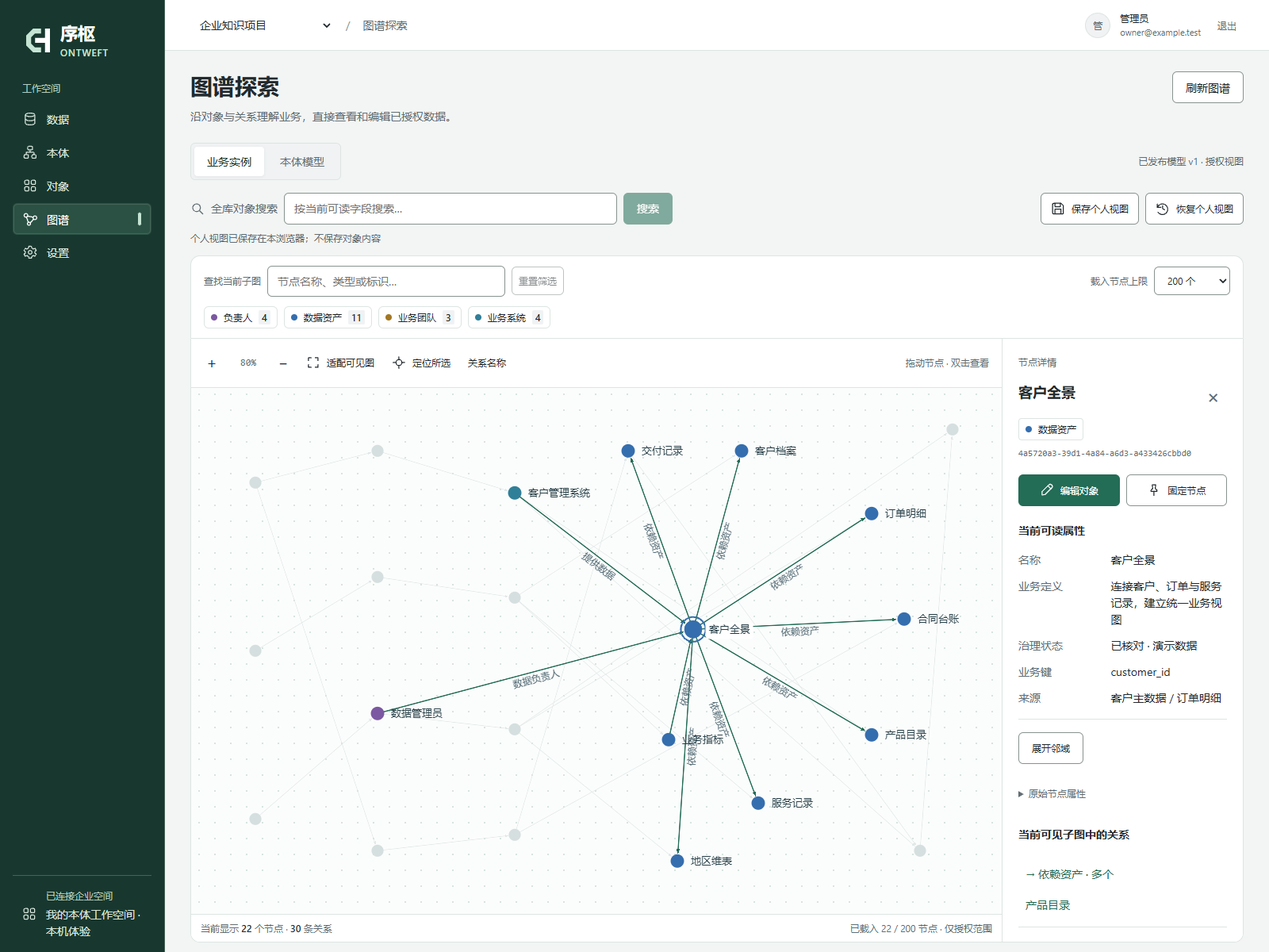
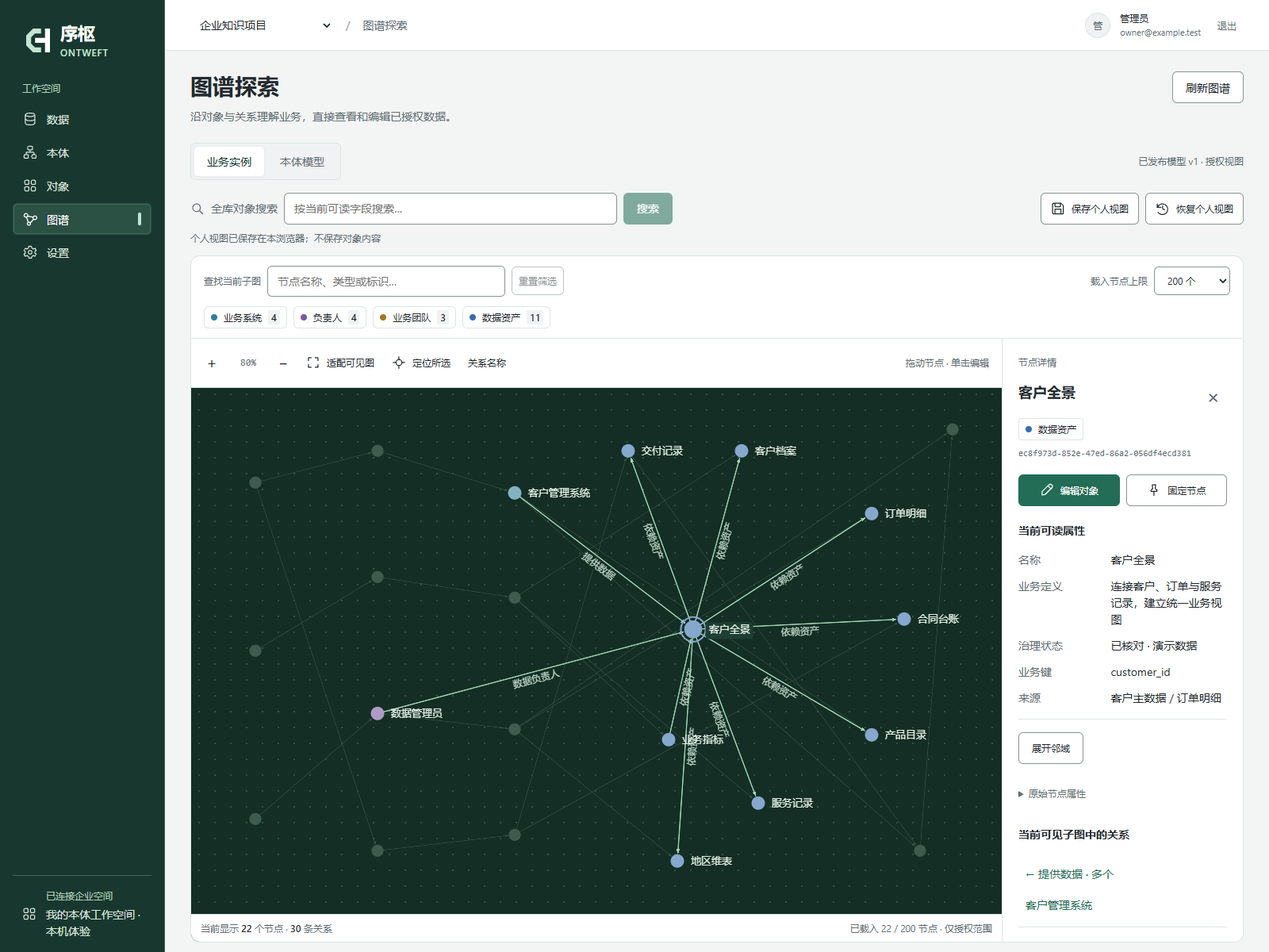
docs: showcase AI-assisted ontology and the real graph workbench
* docs: refresh Ontweft showcase with AI workflow and real graph

* docs: distinguish native PDF text from visual table understanding

diff --git a/README.en.md b/README.en.md
@@ -1,46 +1,35 @@
-<p align="center">
-  <img src="frontend/public/brand/ontweft-favicon.svg" width="64" height="64" alt="Ontweft logo" />
-</p>
-
+<p align="center"><img src="frontend/public/brand/ontweft-favicon.svg" width="64" height="64" alt="Ontweft mark" /></p>
 <h1 align="center">Ontweft · 序枢</h1>
+<p align="center"><strong>Connect knowledge to business.</strong><br />Turn documents and databases into editable business ontologies with traceable evidence.</p>
+<p align="center">AI-assisted modeling · Interactive graphs · Self-hosted · Apache-2.0</p>
+<p align="center"><a href="README.md">简体中文</a> · English · <a href="#get-started">Get started</a> · <a href="https://github.com/xiaohuihuiaijia/ontweft/blob/codex/slim-enterprise-beta/docs/deployment.md">Deployment</a> · <a href="https://github.com/xiaohuihuiaijia/ontweft/issues">Share a use case</a></p>
 
-<p align="center"><strong>Connect knowledge to business.</strong><br />Turn scattered data into business objects and relationships your team can understand, edit and maintain.</p>
+![The real Ontweft workbench: named business relationships and an editable customer-view object](docs/images/graph-workbench.png)
 
-<p align="center">Open-source enterprise ontology workbench · Self-hosted · Apache-2.0</p>
+<p align="center"><sub>Real application and API, 22 synthetic objects and 30 relationships. Personal layout arranged with actual drag gestures. No customer data.</sub></p>
 
-<p align="center">
-  <a href="README.md">简体中文</a> · English ·
-  <a href="#try-it-locally">Get started</a> ·
-  <a href="https://github.com/xiaohuihuiaijia/ontweft/blob/codex/slim-enterprise-beta/docs/deployment.md">Deployment</a> ·
-  <a href="https://github.com/xiaohuihuiaijia/ontweft/issues">Feedback</a>
-</p>
+> **Try Enterprise Beta.** This page and the commands below refer to `codex/slim-enterprise-beta`, under review in [PR #1](https://github.com/xiaohuihuiaijia/ontweft/pull/1). Application code on `main` is still the earlier Alpha. The UI and detailed guides are primarily Chinese.
 
-![The real Ontweft graph workbench with draggable nodes, named business relationships and an editable object inspector](docs/images/graph-workbench.png)
+## Give your data a shared business meaning
 
-<p align="center"><sub>Actual application UI with 22 synthetic objects and 30 named relationships. No customer data. The application UI and detailed guides are currently primarily in Chinese.</sub></p>
+A product manual, a spreadsheet and a database often describe different parts of the same business. Ontweft helps you define their types, properties and relationships, then map records into objects you can search, trace and edit.
 
-> **Try the enterprise Beta branch.** This page describes `codex/slim-enterprise-beta`, currently under review in [PR #1](https://github.com/xiaohuihuiaijia/ontweft/pull/1). Application code on `main` is still the earlier Alpha. The commands below explicitly check out Beta.
+**Choose sources → describe the business goal → review model and fact candidates → publish and import → keep relationships current.**
 
-## From source data to a working business graph
-
-Define what customers, orders, assets and projects mean in your business. Bring in existing records, maintain their identity as sources change, and explore authorized relationships in a graph you can edit. Start with one useful scenario instead of modeling the whole company at once.
-
-**Connect → Model → Validate and publish → Keep relationships updated → Explore and edit.**
-
-| What you need | Available in Beta |
+| Workflow | What you can do |
 | --- | --- |
-| Use your existing data | CSV/XLSX uploads, PostgreSQL sources and editable mappings, with original files and record locations preserved |
-| Model business meaning | Editable types, properties, enums, named relationships, composite unique keys and cardinality constraints |
-| Keep the graph current | Immutable file versions, business-key updates, explicit cross-source identity binding and persistent relationship rules |
-| Work directly in the graph | Authorized full-dataset search, paginated neighborhoods, mouse/touch dragging, pinned nodes and personal views; open node or relationship editors directly |
-| Collaborate with traceability | Project and field permissions, versioned models, source evidence and audit; separate model authors and approvers by default in enterprise mode |
-| Keep deployment lean | One API service, PostgreSQL and the existing worker; knowledge, additional connectors and automation are optional |
+| **Understand documents** | Read PDFs, Office files, images and text; extract from a selected scope automatically or against your own requirements; open the supporting source |
+| **Draft an ontology** | AI suggests types, properties, relations and mappings; reuse existing definitions, edit candidates, then validate, approve and publish |
+| **Bring in data** | CSV/XLSX and PostgreSQL; explicit business keys, immutable file versions, mappings and exact cross-source identity binding |
+| **Maintain relationships** | Recompute saved rules as matching fields change; preserve manual relationships, source contributions and historical evidence |
+| **Work in the graph** | Authorized global search, paginated neighbors, drag and pin, saved personal views; click nodes to edit and inspect or modify relationships |
+| **Collaborate** | Project and field permissions, model revisions, versioned evidence and audit records; separate model author and approver in enterprise mode |
 
-Five default navigation entries: **Data, Ontology, Objects, Graph, Settings**. Local modeling and graph exploration need no AI API key, vector database or external model service.
+Five main destinations: **Data, Ontology, Objects, Graph, Settings**. One PostgreSQL database, one API service and the existing worker. No separate graph or vector service required. Manual modeling and deterministic ingestion work without an AI key; additional connectors, knowledge and automation remain optional.
 
-## Try it locally
+## Get started
 
-Prerequisites: **Python 3.12, uv and Node.js 22.12+**. The local learning workspace uses persistent SQLite:
+Install **Python 3.12, uv and Node.js 22.12+**, then run:
 
 ```sh
 git clone --branch codex/slim-enterprise-beta https://github.com/xiaohuihuiaijia/ontweft.git
@@ -51,56 +40,43 @@ npm --prefix frontend run build
 uv run --locked --no-dev python scripts/start_local_demo.py
 ```
 
-Set a password of at least 12 characters when prompted. Open **http://127.0.0.1:8020** and sign in as `owner` with that password.
+Choose a password of at least 12 characters at the hidden prompt. Open **http://127.0.0.1:8020** and sign in as `owner`.
 
-1. Open **本体** (Ontology), create a changeset and choose a project/task or asset/location template.
-2. Edit the model, then save, validate, approve and publish it.
-3. Create records and relationships under **对象** (Objects), then open **图谱** (Graph) to explore and edit them.
-
-For file ingestion, persistent relationships, full-text indexing and large-model validation, run the worker in another terminal:
+- **Explore the graph:** create a change set from a template in Ontology, edit and publish it, add records in Objects, then drag and edit them in Graph.
+- **Use your own tables:** start the worker below in another terminal, upload CSV/XLSX in Data, choose business keys and generate editable model suggestions.
+- **Try AI drafting:** configure a compatible service under Settings → Model connections, then select sources, scope and an optional business goal from Data or Ontology.
 
 ```sh
 uv run --locked --no-dev python scripts/start_local_demo.py worker
 ```
 
-Upload your CSV/XLSX under **数据** (Data). Local data stays in `var/local-demo/`. This entry listens on loopback only; use the deployment guide for PostgreSQL, HTTPS and enterprise operation. Source database connections require an explicit host allowlist.
+The local demo uses persistent SQLite in `var/local-demo/` and binds only to loopback. Team deployments use PostgreSQL and HTTPS. See the [deployment guide](https://github.com/xiaohuihuiaijia/ontweft/blob/codex/slim-enterprise-beta/docs/deployment.md).
 
-## Measured progress, with clear limits
+## AI proposes. You decide what becomes a fact.
 
-As of **2026-11-10**, isolated core installation, real-browser workflows, Linux/PostgreSQL deployment and backup/restore have been exercised. Current-commit results are available in the [PR checks](https://github.com/xiaohuihuiaijia/ontweft/pull/1/checks); historical test batches are not a substitute for a green current build.
+The integration uses configurable OpenAI-compatible Chat Completions. Text, vision and structured-output capabilities are declared and tested separately. Bailian is the first live-tested service; interface compatibility does not imply that other providers have been verified.
 
-The scale fixture contains **100,000 objects, 1,000,000 relationships and 50 users**. It used four API processes on Windows and Docker PostgreSQL 17.11 with 6 CPU / 11.68 GiB available. Initial data and indexes were prebuilt; this is not ingestion throughput or a production SLA.
+PDF pages render locally with native text extraction; configured vision models interpret table structure and complex pages. Office files and spreadsheets retain directly readable structure. Inputs include PDF, DOCX, XLSX, PPTX, PNG/JPEG, CSV, text and Markdown. Office page numbers denote logical units. Document uploads default to **256 MiB**; deterministic table imports have separate [size and structure limits](https://github.com/xiaohuihuiaijia/ontweft/blob/codex/slim-enterprise-beta/docs/data-to-ontology.md).
 
-| Measurement | Observed result |
-| --- | --- |
-| Queries from 50 concurrent clients | 1,000 mixed requests succeeded; common-term search / neighbors / detail P95: 0.765 / 0.772 / 0.657 s |
-| Unique-code full-text search | P95 **2.135 s**, above the 1-second target |
-| 50 concurrent writes reaching both search and rule-generated relationships | 50/50 completed; P95 **22.420 s**, including waits and retries; observers received 25 temporary 503 responses |
+Page progress and evidence versions remain traceable. Changing the business goal can reuse base recognition results. Candidates are editable; models cannot run arbitrary SQL, publish definitions directly or bypass import confirmation. **No standalone OCR engine, GPU or resident local model service is required. Configured external models incur provider charges.**
 
-The canvas shows a bounded, authorized working view: up to 500 nodes and 1,000 edges. It does not render the entire database at once. Real WAL-expiry CDC recovery, large initial imports, large attachment restores and sustained production loads still require separate acceptance testing. Full OWL/SHACL, general reasoning, natural-language queries and vector search are not core features; Feishu and complex OCR need their own configuration and validation.
+## What has been verified
 
-[Full methodology, measurements and remaining work →](https://github.com/xiaohuihuiaijia/ontweft/blob/codex/slim-enterprise-beta/docs/beta-verification.md)
+Checks include isolated database regressions, real Chromium workflows, Linux/PostgreSQL CI and synthetic deployment/restore exercises. This audit fixes source projection scope, relationship indexes, historical evidence navigation, UI races and repeated queries. See the [audit](https://github.com/xiaohuihuiaijia/ontweft/blob/codex/slim-enterprise-beta/docs/project-audit.md) and [current CI](https://github.com/xiaohuihuiaijia/ontweft/pull/1/checks).
 
-## Documentation and architecture
+A synthetic benchmark covers **100,000 objects / 1,000,000 relationships / 50 users**. Unique-code search P95 still exceeds the one-second target; this is not a production SLA. Human-verified document accuracy, full-document processing, live CDC failure recovery and large-attachment disaster recovery still need dedicated acceptance tests. [Measurements and limits →](https://github.com/xiaohuihuiaijia/ontweft/blob/codex/slim-enterprise-beta/docs/beta-verification.md)
 
-These guides target the Beta branch and are currently in Chinese:
+## Documentation and contributions
 
 | Goal | Guide |
 | --- | --- |
-| Build your first ontology | [Getting started](https://github.com/xiaohuihuiaijia/ontweft/blob/codex/slim-enterprise-beta/docs/getting-started.md) |
-| Bring in files or database tables | [Data to ontology](https://github.com/xiaohuihuiaijia/ontweft/blob/codex/slim-enterprise-beta/docs/data-to-ontology.md) |
-| Understand the model and graph | [Modeling methodology](https://github.com/xiaohuihuiaijia/ontweft/blob/codex/slim-enterprise-beta/docs/ontology-methodology.md) · [Graph interactions](https://github.com/xiaohuihuiaijia/ontweft/blob/codex/slim-enterprise-beta/docs/graph.md) |
-| Deploy, upgrade and restore | [Deployment](https://github.com/xiaohuihuiaijia/ontweft/blob/codex/slim-enterprise-beta/docs/deployment.md) · [Core and extensions](https://github.com/xiaohuihuiaijia/ontweft/blob/codex/slim-enterprise-beta/docs/enterprise-beta.md) |
-| Contribute and inspect the implementation | [Contributing](https://github.com/xiaohuihuiaijia/ontweft/blob/codex/slim-enterprise-beta/CONTRIBUTING.md) · [Project audit](https://github.com/xiaohuihuiaijia/ontweft/blob/codex/slim-enterprise-beta/docs/project-audit.md) |
+| Build your first ontology | [Getting started](https://github.com/xiaohuihuiaijia/ontweft/blob/codex/slim-enterprise-beta/docs/getting-started.md) · [Data to ontology](https://github.com/xiaohuihuiaijia/ontweft/blob/codex/slim-enterprise-beta/docs/data-to-ontology.md) |
+| Understand models and graphs | [Methodology](https://github.com/xiaohuihuiaijia/ontweft/blob/codex/slim-enterprise-beta/docs/ontology-methodology.md) · [Graph operations](https://github.com/xiaohuihuiaijia/ontweft/blob/codex/slim-enterprise-beta/docs/graph.md) |
+| Deploy, upgrade and extend | [Deployment](https://github.com/xiaohuihuiaijia/ontweft/blob/codex/slim-enterprise-beta/docs/deployment.md) · [Core and extensions](https://github.com/xiaohuihuiaijia/ontweft/blob/codex/slim-enterprise-beta/docs/enterprise-beta.md) |
+| Review or contribute | [Contributing](https://github.com/xiaohuihuiaijia/ontweft/blob/codex/slim-enterprise-beta/CONTRIBUTING.md) · [Audit and open decisions](https://github.com/xiaohuihuiaijia/ontweft/blob/codex/slim-enterprise-beta/docs/project-audit.md) |
 
-Built with **Python / FastAPI / SQLAlchemy / PostgreSQL** and **React / TypeScript / Sigma / Graphology**. Backend modules live in `backend/ontology/`, frontend features in `frontend/src/`, and CDC adapter source in `integrations/debezium/`. The core is a modular monolith, with no separate graph database or search service required.
+**Python / FastAPI / SQLAlchemy / PostgreSQL · React / TypeScript / Sigma / Graphology.** A modular monolith shaped by concrete use cases.
 
-## Help shape the workbench
+If this direction is useful to you, **Star** the repository to follow progress. [Share a use case or report an issue](https://github.com/xiaohuihuiaijia/ontweft/issues): what data are you connecting, what question should it answer, and where did you get stuck? Use sanitized examples. Report security concerns privately under the [security policy](SECURITY.md).
 
-If this is useful to your team, **star the repository** to follow its progress. Specific use cases are especially welcome: which data you need to connect, what question you want to answer, and where the workflow gets in the way.
-
-- [Open an issue](https://github.com/xiaohuihuiaijia/ontweft/issues) with a version, reproduction steps and sanitized sample data.
-- [Contribute](https://github.com/xiaohuihuiaijia/ontweft/blob/codex/slim-enterprise-beta/CONTRIBUTING.md) documentation, accessibility improvements, test cases or measured performance fixes. Small, focused changes are preferred.
-- Report security issues privately as described in [SECURITY.md](SECURITY.md).
-
-Original code is licensed under [Apache-2.0](LICENSE), with attribution in [NOTICE](NOTICE). Dependencies retain their own licenses and [notices](frontend/public/THIRD_PARTY_NOTICES.txt). [Screenshot provenance and reproduction](docs/images/README.md) are included. Open source does not imply production readiness, a completed security or trademark review, or clearance to redistribute every third-party binary or model package.
+Project-owned code is [Apache-2.0](LICENSE). Third-party components retain their licenses and [notices](frontend/public/THIRD_PARTY_NOTICES.txt); see [screenshot provenance](docs/images/README.md) and [NOTICE](NOTICE). No claim of production readiness, a complete security audit, trademark clearance or complete binary/model redistribution clearance is made.

diff --git a/README.md b/README.md
@@ -1,46 +1,35 @@
-<p align="center">
-  <img src="frontend/public/brand/ontweft-favicon.svg" width="64" height="64" alt="序枢标志" />
-</p>
-
+<p align="center"><img src="frontend/public/brand/ontweft-favicon.svg" width="64" height="64" alt="序枢标志" /></p>
 <h1 align="center">序枢 Ontweft</h1>
+<p align="center"><strong>让知识连接业务。</strong><br />从文档和数据库，构建有来源、可编辑、持续更新的业务本体。</p>
+<p align="center">AI 辅助建模 · 交互式图谱 · 自部署 · Apache-2.0</p>
+<p align="center">简体中文 · <a href="README.en.md">English</a> · <a href="#开始使用">开始使用</a> · <a href="https://github.com/xiaohuihuiaijia/ontweft/blob/codex/slim-enterprise-beta/docs/deployment.md">部署文档</a> · <a href="https://github.com/xiaohuihuiaijia/ontweft/issues">反馈场景</a></p>
 
-<p align="center"><strong>让知识连接业务。</strong><br />把分散的数据，变成可理解、可编辑、持续更新的业务关系。</p>
+![Ontweft 真实工作台：探索具名业务关系，查看并编辑客户全景对象](docs/images/graph-workbench.png)
 
-<p align="center">开源企业本体工作台 · 自部署 · Apache-2.0</p>
+<p align="center"><sub>真实应用与 API，22 个合成对象、30 条关系。通过实际拖动整理个人视图；点击节点进入详情与编辑。非客户数据。</sub></p>
 
-<p align="center">
-  简体中文 · <a href="README.en.md">English</a> ·
-  <a href="#本机体验">开始使用</a> ·
-  <a href="https://github.com/xiaohuihuiaijia/ontweft/blob/codex/slim-enterprise-beta/docs/deployment.md">部署文档</a> ·
-  <a href="https://github.com/xiaohuihuiaijia/ontweft/issues">反馈与建议</a>
-</p>
+> **当前试用版本：Enterprise Beta。** 展示与下方命令对应 `codex/slim-enterprise-beta`，功能代码在 [PR #1](https://github.com/xiaohuihuiaijia/ontweft/pull/1) 中审核；`main` 的应用代码仍是此前 Alpha。界面以中文为主。
 
-![Ontweft 真实图谱工作台：业务关系、可拖动节点与客户全景属性面板](docs/images/graph-workbench.png)
+## 把业务含义、数据与证据连起来
 
-<p align="center"><sub>真实界面，22 个合成对象、30 条具名关系。可拖动节点、展开邻域，并从详情进入对象编辑。截图不是客户数据。</sub></p>
+一份产品手册、一组业务表、一套数据库，往往描述着同一个业务的不同部分。Ontweft 帮你定义其中的类型、属性和关系，再把原始记录映射成可以检索、追溯与编辑的对象。
 
-> **当前试用版本：企业 Beta 分支。** 本页展示 `codex/slim-enterprise-beta`，功能代码正在 [PR #1](https://github.com/xiaohuihuiaijia/ontweft/pull/1) 中审核；`main` 的应用代码仍是此前 Alpha。下面的命令会明确检出 Beta。界面目前以中文为主。
+**选择材料 → 描述业务目标 → 审阅模型与事实候选 → 发布、导入 → 持续更新与图谱探索。**
 
-## 从数据，到可操作的业务图谱
-
-客户、订单、资产、项目散落在文件与数据库中。Ontweft 让你先定义它们的业务含义，再用有来源、受权限约束的对象和关系连接起来。适合数据团队、内部工具开发者和希望从一个小场景开始验证本体的团队。
-
-**接入文件或 PostgreSQL → 编辑类型与关系 → 校验并发布 → 按业务键持续更新 → 在图谱中探索与编辑。**
-
-| 你想做的事 | Beta 已实现 |
+| 工作环节 | 你可以做什么 |
 | --- | --- |
-| 把现有数据带进来 | CSV/XLSX 上传、PostgreSQL 接入、可编辑来源映射；保留原件和记录位置 |
-| 用业务语言定义模型 | 自定义类型、字段、枚举、具名关系、组合唯一键与关系基数；从模板或空白开始 |
-| 让关系跟着数据变化 | 文件不可变版本、业务键更新、精确跨来源绑定、持续关联规则；保留人工关系 |
-| 直接在图谱里工作 | 授权全库搜索、邻域分页、鼠标／触屏拖动、节点固定、个人视图；双击节点或关系打开编辑器 |
-| 让团队协作有依据 | 项目与字段权限、版本化模型、来源证据、审计；企业模式默认异人模型审批 |
-| 保持部署简单 | 一个 API 服务、一套 PostgreSQL、现有 worker；知识、非核心连接器和自动化按需开启 |
+| **理解资料** | 读取 PDF、Office、图片与文本；按所选范围自动归纳，或按自定义业务要求提取；候选可跳回来源 |
+| **起草本体** | AI 建议类型、属性、关系和映射；复用已有模型，编辑后进入既有校验、审批与发布流程 |
+| **接入数据** | CSV/XLSX 与 PostgreSQL；明确业务键、不可变文件版本、来源映射和精确跨来源绑定 |
+| **维护关系** | 持续规则随字段变化增量重算；区分人工关系与来源贡献，保留历史依据 |
+| **在图谱中工作** | 授权全库搜索、按需展开邻域、拖动与固定节点、恢复个人视图；单击节点编辑，选择关系查看和修改 |
+| **团队协作** | 项目与字段权限、模型修订、版本化证据和审计；企业模式默认异人模型审批 |
 
-默认工作台只有 **数据、本体、对象、图谱、设置** 五个入口。本机建模与图谱不需要 AI Key、向量数据库或外部模型服务。
+只有 **数据、本体、对象、图谱、设置** 五个主入口。核心是一套 PostgreSQL、一个 API 服务和现有 worker。无需额外图数据库或向量服务；手工建模和确定性采集无需 AI Key。非核心连接器、知识与自动化按需启用。
 
-## 本机体验
+## 开始使用
 
-准备 **Python 3.12、uv、Node.js 22.12+**。以下体验使用本机 SQLite，数据与账号会保留：
+准备 **Python 3.12、uv、Node.js 22.12+**，运行：
 
 ```sh
 git clone --branch codex/slim-enterprise-beta https://github.com/xiaohuihuiaijia/ontweft.git
@@ -51,56 +40,43 @@ npm --prefix frontend run build
 uv run --locked --no-dev python scripts/start_local_demo.py
 ```
 
-首次运行设置至少 12 个字符的密码，终端不会回显。打开 **http://127.0.0.1:8020**，使用 `owner` 和刚设置的密码登录。
+首次运行设置至少 12 个字符的密码，终端不回显。打开 **http://127.0.0.1:8020**，使用 `owner` 登录。
 
-1. 在“本体”新建变更集，选择“项目与任务”或“资产与位置”模板。
-2. 编辑业务名称与字段，保存、验证、批准并发布。
-3. 在“对象”创建记录和关系，进入“图谱”查看、拖动和编辑。
-
-要从自己的表格开始，另开终端启动 worker，再从“数据”上传 CSV/XLSX：
+- **先体验图谱：** 在“本体”选择模板并编辑、验证、发布，在“对象”添加记录，再进入“图谱”拖动与编辑。
+- **从自己的数据开始：** 另开终端启动下面的 worker，从“数据”上传 CSV/XLSX，选择业务键并生成模型建议。
+- **让 AI 辅助起草：** 在“设置 → 模型连接”配置兼容服务，在“数据 → 文档理解”或“本体 → AI 起草”选择材料、范围与业务要求。
 
 ```sh
 uv run --locked --no-dev python scripts/start_local_demo.py worker
 ```
 
-worker 负责采集、持续关系、全文索引与大规模模型校验。数据保存在 `var/local-demo/`；入口只监听回环地址，用于本机体验。连接数据库的主机名单、企业 PostgreSQL/TLS 部署和旧版本升级分别见下方文档。
+本机体验使用持久化 SQLite，数据保存在 `var/local-demo/`，仅监听回环地址。团队部署使用 PostgreSQL 与 HTTPS；见[部署指南](https://github.com/xiaohuihuiaijia/ontweft/blob/codex/slim-enterprise-beta/docs/deployment.md)。
 
-## 实测进展与边界
+## AI 提建议，业务事实由你确认
 
-截至 **2026-11-10**，已完成核心依赖隔离安装、真实浏览器接入与图谱交互、Linux/PostgreSQL 部署和备份恢复验证。各项测试范围与跳过项都有记录；当前提交的自动检查以 [GitHub Actions](https://github.com/xiaohuihuiaijia/ontweft/pull/1/checks) 为准。
+接入层使用可配置的 OpenAI-compatible Chat Completions，文字、视觉与结构化输出能力分别声明和测试。百炼是首个实测服务；不把接口兼容视作其他供应商已通过验证。
 
-规模夹具：**10 万对象、100 万关系、50 个用户**；Windows 上 4 个 API 进程，Docker PostgreSQL 17.11，可用 6 CPU／11.68 GiB。数据与初始索引预建，结果不代表首次导入吞吐或生产 SLA。
+PDF 在本地分页渲染并提取原生文字，表格结构与复杂页面交给所配置的视觉模型；Office 和表格文件保留可直接读取的结构。支持 PDF、DOCX、XLSX、PPTX、PNG/JPEG、CSV、文本/Markdown；Office 页码是逻辑单元。文档上传默认 **256 MiB**，确定性表格导入另有[行列及大小预算](https://github.com/xiaohuihuiaijia/ontweft/blob/codex/slim-enterprise-beta/docs/data-to-ontology.md)。
 
-| 实际测量 | 结果 |
+页面进度与证据版本可追溯；修改业务要求可复用基础识别。模型产出进入可编辑候选，不能执行任意 SQL、直接发布模型或绕过实例导入确认。**无需独立 OCR、GPU 或常驻本地模型服务；配置外部模型后，调用按供应商计费。**
+
+## 已验证什么
+
+已运行隔离数据库回归、真实 Chromium 工作流、Linux/PostgreSQL CI，以及合成数据部署与恢复验证。本轮进一步修复了来源投影范围、关系匹配索引、历史证据定位、页面竞态和重复查询，详见[项目审查](https://github.com/xiaohuihuiaijia/ontweft/blob/codex/slim-enterprise-beta/docs/project-audit.md)与[当前 CI](https://github.com/xiaohuihuiaijia/ontweft/pull/1/checks)。
+
+已有 **10 万对象 / 100 万关系 / 50 用户**的合成规模测量；唯一编码搜索 P95 仍高于 1 秒目标，不能据此宣称生产 SLA。复杂文档的人工准确率、整本处理、真实 CDC 故障恢复与大附件灾难恢复仍需专项验收。[完整测量与限制 →](https://github.com/xiaohuihuiaijia/ontweft/blob/codex/slim-enterprise-beta/docs/beta-verification.md)
+
+## 文档与参与
+
+| 想了解什么 | 入口 |
 | --- | --- |
-| 50 并发客户端的查询 | 1,000 次混合查询成功；常见词搜索／邻域／详情 P95 为 0.765／0.772／0.657 秒 |
-| 唯一编码全文搜索 | P95 **2.135 秒**，尚未达到 1 秒目标 |
-| 50 次并发写入传播到检索与关系 | 50/50 完成，P95 **22.420 秒**，包含等待与重试；观察期间有 25 次临时 503 |
+| 第一次建立本体 | [入门指南](https://github.com/xiaohuihuiaijia/ontweft/blob/codex/slim-enterprise-beta/docs/getting-started.md) · [从数据建模](https://github.com/xiaohuihuiaijia/ontweft/blob/codex/slim-enterprise-beta/docs/data-to-ontology.md) |
+| 模型与图谱如何工作 | [本体方法论](https://github.com/xiaohuihuiaijia/ontweft/blob/codex/slim-enterprise-beta/docs/ontology-methodology.md) · [图谱操作](https://github.com/xiaohuihuiaijia/ontweft/blob/codex/slim-enterprise-beta/docs/graph.md) |
+| 部署、升级与扩展 | [部署指南](https://github.com/xiaohuihuiaijia/ontweft/blob/codex/slim-enterprise-beta/docs/deployment.md) · [核心与扩展](https://github.com/xiaohuihuiaijia/ontweft/blob/codex/slim-enterprise-beta/docs/enterprise-beta.md) |
+| 核对实现或提交代码 | [贡献指南](https://github.com/xiaohuihuiaijia/ontweft/blob/codex/slim-enterprise-beta/CONTRIBUTING.md) · [审查与待审核项](https://github.com/xiaohuihuiaijia/ontweft/blob/codex/slim-enterprise-beta/docs/project-audit.md) |
 
-图谱按需载入授权子图，画布最多 500 节点／1,000 条关系，并非一次渲染全库。真实 WAL 过期后的 CDC 重建、大批首次导入、大附件恢复和持续生产负载仍需专项验收。完整 OWL/SHACL、通用推理、自然语言与向量能力不是默认核心；飞书和复杂 OCR 单独配置、单独验收。
+**Python / FastAPI / SQLAlchemy / PostgreSQL · React / TypeScript / Sigma / Graphology。** 保持模块化单体，优先解决具体场景，不建设额外的平台层。
 
-[查看完整测量、复现方法与剩余问题 →](https://github.com/xiaohuihuiaijia/ontweft/blob/codex/slim-enterprise-beta/docs/beta-verification.md)
+如果这正是你需要的方向，欢迎 **Star** 关注进展。也欢迎[带着一个业务场景来提 Issue](https://github.com/xiaohuihuiaijia/ontweft/issues)：你要连接什么数据、回答什么问题、在哪一步遇到了阻碍。请使用脱敏示例；安全问题按[安全说明](SECURITY.md)私下报告。
 
-## 文档与源码
-
-以下使用与部署文档对应本页的 Beta 分支：
-
-| 目的 | 入口 |
-| --- | --- |
-| 完成第一次建模 | [入门指南](https://github.com/xiaohuihuiaijia/ontweft/blob/codex/slim-enterprise-beta/docs/getting-started.md) |
-| 接入文件或自己的数据库 | [从数据建立本体](https://github.com/xiaohuihuiaijia/ontweft/blob/codex/slim-enterprise-beta/docs/data-to-ontology.md) |
-| 理解模型与图谱的用法 | [本体方法论](https://github.com/xiaohuihuiaijia/ontweft/blob/codex/slim-enterprise-beta/docs/ontology-methodology.md) · [图谱操作](https://github.com/xiaohuihuiaijia/ontweft/blob/codex/slim-enterprise-beta/docs/graph.md) |
-| 自部署、升级、备份与恢复 | [部署指南](https://github.com/xiaohuihuiaijia/ontweft/blob/codex/slim-enterprise-beta/docs/deployment.md) · [核心与扩展](https://github.com/xiaohuihuiaijia/ontweft/blob/codex/slim-enterprise-beta/docs/enterprise-beta.md) |
-| 参与开发与核对实现 | [贡献指南](https://github.com/xiaohuihuiaijia/ontweft/blob/codex/slim-enterprise-beta/CONTRIBUTING.md) · [项目审查](https://github.com/xiaohuihuiaijia/ontweft/blob/codex/slim-enterprise-beta/docs/project-audit.md) |
-
-技术栈为 **Python / FastAPI / SQLAlchemy / PostgreSQL** 与 **React / TypeScript / Sigma / Graphology**。后端在 `backend/ontology/`，前端在 `frontend/src/`，CDC 适配源码在 `integrations/debezium/`。核心保持模块化单体，不要求额外图数据库或搜索服务。
-
-## 一起把它做得更好
-
-如果这个方向对你有用，欢迎给项目一个 **Star**，方便关注后续进展。更有价值的反馈是一个具体场景：你想连接哪些数据、回答什么业务问题、在哪一步遇到了阻碍。
-
-- [报告问题或提出场景](https://github.com/xiaohuihuiaijia/ontweft/issues)：附版本、复现步骤与脱敏示例。
-- [提交贡献](https://github.com/xiaohuihuiaijia/ontweft/blob/codex/slim-enterprise-beta/CONTRIBUTING.md)：文档、可访问性、用例与有测量依据的优化都欢迎；优先小而明确的改动。
-- 安全问题请按 [安全说明](SECURITY.md) 私下报告，不在公开 Issue 中贴凭据。
-
-自有代码采用 [Apache-2.0](LICENSE)，版权声明见 [NOTICE](NOTICE)。第三方包保留各自许可与[必要通知](frontend/public/THIRD_PARTY_NOTICES.txt)；截图的[来源与复现方式](docs/images/README.md)随仓库提供。源码开放不代表生产可用性、安全审计、商标清查或全部第三方二进制／模型再分发验收通过。
+自有代码采用 [Apache-2.0](LICENSE)，第三方组件保留原许可与[必要通知](frontend/public/THIRD_PARTY_NOTICES.txt)。[截图来源](docs/images/README.md)与 [NOTICE](NOTICE)随仓库提供。当前不宣称生产可用性、完整安全审计、商标清查或全部二进制/模型再分发验收通过。

diff --git a/docs/images/README.md b/docs/images/README.md
@@ -1,11 +1,11 @@
 # 项目展示截图
 
-`graph-workbench.png` 于 2026-11-10 从企业 Beta 的实际构建界面截取，画面为 1600 × 1200 像素。使用全新本机 SQLite、随机临时密码与真实认证 API，创建并发布四类模型、22 个合成对象和 30 条关系。没有客户数据、外部图片或生成式图像素材。
+`graph-workbench.png` 于 2026-11-11 从当前构建的真实工作台截取，1600 × 1200 像素。画面包含 4 类业务模型、22 个合成对象、30 条具名关系，以客户全景连接业务系统、数据资产、负责人和团队。
 
-图中坐标通过真实鼠标拖动调整，并使用现有“保存个人视图”操作保存。节点、关系、统计和属性均来自实际 API；未替换页面文案、样式或接口响应。截图后验证了“编辑对象”打开真实表单。它展示交互能力，不是生产规模验收。
+来源为 [capture_showcase.cjs](https://github.com/xiaohuihuiaijia/ontweft/blob/codex/slim-enterprise-beta/scripts/capture_showcase.cjs)：全新本机 SQLite、随机临时密码、真实认证 API；发布模型并创建记录后，通过真实鼠标拖动整理个人视图，选择“客户全景”显示属性。节点、边、统计和属性均来自应用，不替换页面样式、文字或接口响应。截图直接复制，未经图像加工；没有客户资料、私有 PDF、识别正文或外部图像素材。
 
-复现使用 Beta 分支的 [capture_showcase.cjs](https://github.com/xiaohuihuiaijia/ontweft/blob/codex/slim-enterprise-beta/scripts/capture_showcase.cjs)，先按 [贡献指南](https://github.com/xiaohuihuiaijia/ontweft/blob/codex/slim-enterprise-beta/CONTRIBUTING.md) 安装依赖、构建前端并准备可选 Playwright/Chromium，然后设置 `PLAYWRIGHT_MODULE` 并运行 `node scripts/capture_showcase.cjs`。该工具不属于运行时依赖。
+本次捕获确认无页面错误、无横向溢出，并打开了实际对象编辑表单。它证明展示与编辑入口来自真实产品，不替代质量或规模验收。独立 [图谱浏览器回归](https://github.com/xiaohuihuiaijia/ontweft/blob/codex/slim-enterprise-beta/scripts/verify_graph_workbench.cjs) 另覆盖拖动、触摸、固定、恢复、节点和关系编辑、展开收起以及 320–1440px 布局；独立 [AI 浏览器回归](https://github.com/xiaohuihuiaijia/ontweft/blob/codex/slim-enterprise-beta/scripts/verify_ai_workbench.cjs) 使用本地合成模型验证来源跳转与导入。
 
-结果保存在忽略目录 `var/reports/showcase/`，含概览、选中节点截图、捕获记录和独立合成数据库；维护者确认画面后仅复制所选 PNG 到本目录。不要提交临时数据库、日志或凭据。截图文件名固定，后续替换不需要修改中英文 README。
+先按[贡献指南](https://github.com/xiaohuihuiaijia/ontweft/blob/codex/slim-enterprise-beta/CONTRIBUTING.md)安装依赖、构建前端并准备可选 Playwright/Chromium，设置 `PLAYWRIGHT_MODULE` 后运行 `node scripts/capture_showcase.cjs`。结果保存在忽略目录 `var/reports/showcase/`，其中 `capture.json` 记录实际场景与尺寸。只将选定 PNG 复制到本目录；临时数据库、日志和凭据不提交。浏览器工具不属于产品运行时依赖。
 
-原有 `workbench.png`、`table-intake.png`、`data-graph.png` 保留为先前合成场景的图片及相关文档引用，不代表当前主视觉。
+`workbench.png`、`table-intake.png`、`data-graph.png` 保留此前合成场景的相关文档引用，不代表当前主视觉。
